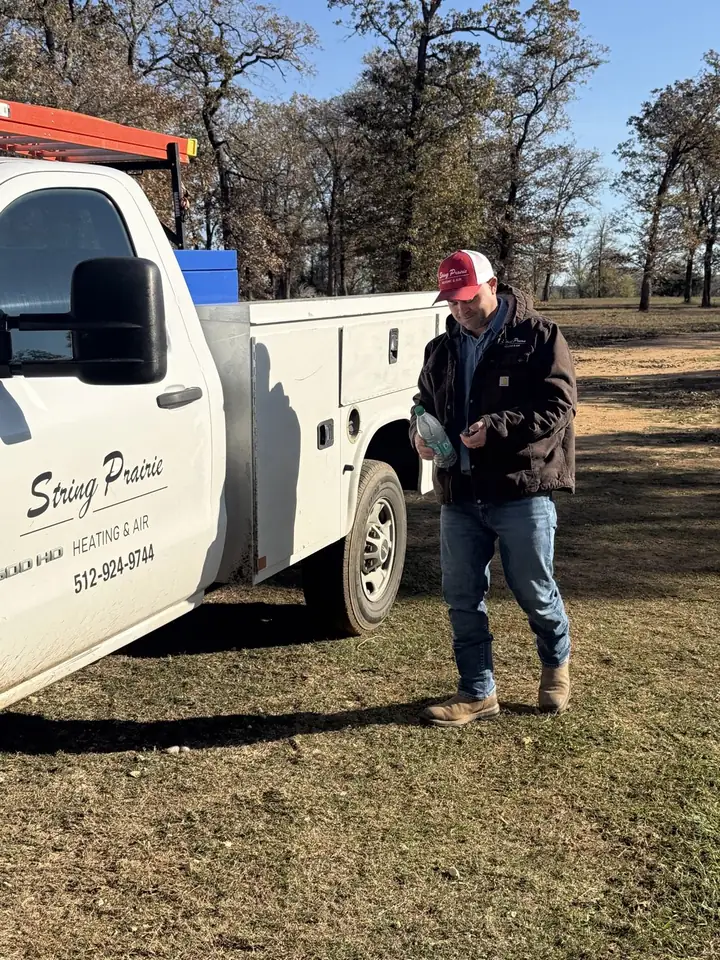
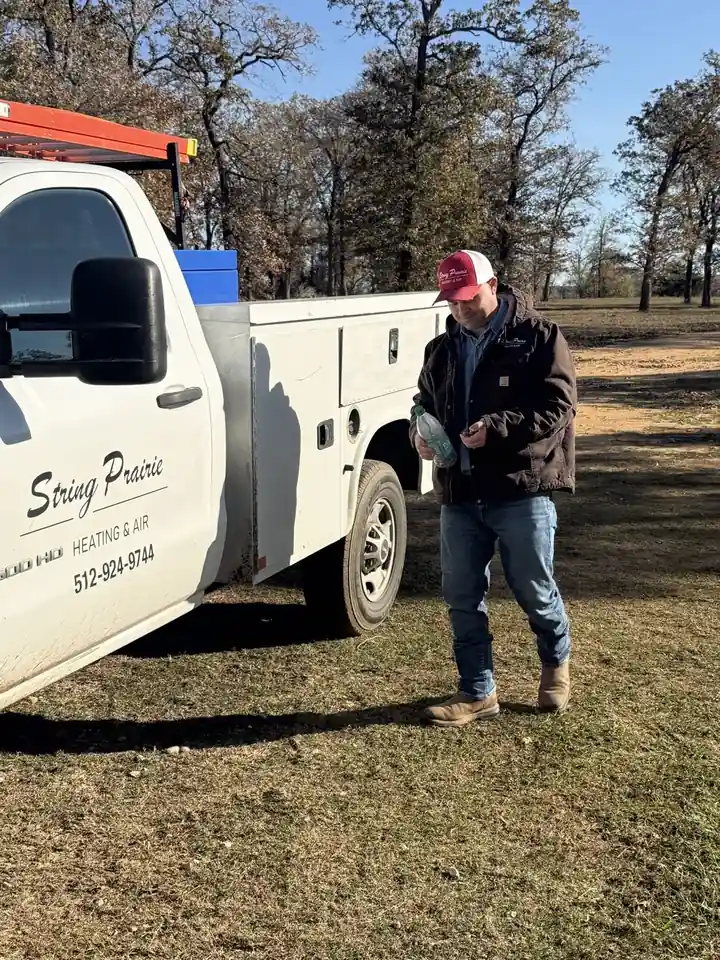
Shrink the partner hero and title florist searches as Florists.
The 960px photo stays under 150KB, the srcset adds 720px, and flower searches no longer borrow an unrelated group name.

diff --git a/src/lib/directoryMatch.ts b/src/lib/directoryMatch.ts
@@ -4,7 +4,7 @@
  */
 import synonymsFile from '../data/directorySynonyms.json' with { type: 'json' };
 import groupsFile from '../data/directoryCategoryGroups.json' with { type: 'json' };
-import { directoryLabelInfo } from './directoryGroups.ts';
+import { directoryLabelInfo, groupShort } from './directoryGroups.ts';
 
 export type MatchRow = {
   n: string;
@@ -161,6 +161,8 @@ export function buildDirectoryMatcher(syn: SynFile = synonymsFile as SynFile, gr
     return prepared.nameNorm.includes(` ${normalizeDirectoryText(town)} `);
   }
 
+  const broadGroups = new Set(['shopping', 'business', 'community', 'things-to-do']);
+
   function conceptGroup(id: string) {
     const concept = concepts.get(id);
     if (!concept) return '';
@@ -168,6 +170,28 @@ export function buildDirectoryMatcher(syn: SynFile = synonymsFile as SynFile, gr
     if (listed[0]) return listed[0];
     const category = concept.categories?.[0];
     return category ? directoryLabelInfo(category).group : '';
+  }
+
+  function conceptAdTitle(id: string) {
+    const concept = concepts.get(id);
+    if (!concept) return '';
+    if (id === 'florist') return 'Florists';
+    const group = conceptGroup(id);
+    if (group && !broadGroups.has(group)) return groupShort(group);
+    const clause = String(concept.label || '').split('&')[0].trim();
+    return clause || (group ? groupShort(group) : '');
+  }
+
+  function pickAdConcept(units: QueryUnit[], text: string) {
+    const found: { id: string; term: string }[] = [];
+    for (const unit of units) {
+      if (unit.kind !== 'concept') continue;
+      for (const id of unit.ids || []) found.push({ id, term: unit.text });
+    }
+    if (!found.length) return '';
+    if (found.some((item) => item.id === 'florist') && /\b(florist|flowers|flower|nursery|plants)\b/.test(text)) return 'florist';
+    found.sort((a, b) => b.term.length - a.term.length || text.lastIndexOf(b.term) - text.lastIndexOf(a.term));
+    return found[0].id;
   }
 
   function unitOk(prepared: Prepared, unit: QueryUnit) {
@@ -198,7 +222,7 @@ export function buildDirectoryMatcher(syn: SynFile = synonymsFile as SynFile, gr
     return concept?.label || '';
   }
 
-  return { parse, search, prep, conceptLabel, conceptGroup, concepts };
+  return { parse, search, prep, conceptLabel, conceptGroup, conceptAdTitle, pickAdConcept, concepts };
 }
 
 let shared: ReturnType<typeof buildDirectoryMatcher> | undefined;

diff --git a/scripts/directory-ads.test.ts b/scripts/directory-ads.test.ts
@@ -246,6 +246,12 @@ test('nearest sorts by distance and does not pin', () => {
   const untitled = directoryAdContext('custom homes', '', '');
   assert.equal(untitled.category, 'builders');
   assert.equal(houseDirectoryPromo('spotlight', untitled).title, 'Builders');
+  assert.equal(houseDirectoryPromo('spotlight', directoryAdContext('wedding flowers', '', '')).title, 'Florists');
+  assert.equal(houseDirectoryPromo('spotlight', directoryAdContext('florist', '', '')).title, 'Florists');
+  assert.equal(houseDirectoryPromo('spotlight', directoryAdContext('flowers', '', '')).title, 'Florists');
+  assert.equal(houseDirectoryPromo('spotlight', directoryAdContext('hvac', '', '')).title, 'Home Repair');
+  assert.notEqual(houseDirectoryPromo('spotlight', directoryAdContext('photographer', '', '')).title, 'Business');
+  assert.notEqual(houseDirectoryPromo('spotlight', directoryAdContext('wedding', '', '')).title, 'Things to Do');
 });
 
 test('a file match can feature a partner before the D1 column exists', () => {

diff --git a/src/lib/directoryView.ts b/src/lib/directoryView.ts
@@ -321,7 +321,9 @@ export function directoryAdContext(query: string, town: string, category: string
   const parsed = directoryMatcher().parse(query);
   const concepts = parsed.units.filter((unit) => unit.kind === 'concept').flatMap((unit) => unit.ids || []);
   const townName = town && town !== 'Countywide' ? town : parsed.town;
-  let group = category || directoryMatcher().conceptGroup(concepts[0] || '');
+  const chosen = category ? '' : directoryMatcher().pickAdConcept(parsed.units, parsed.text);
+  let group = category || (chosen ? directoryMatcher().conceptGroup(chosen) : '');
+  let label = !category && chosen ? directoryMatcher().conceptAdTitle(chosen) : '';
   if (!group) {
     const text = parsed.text;
     for (const record of advertiserById.values()) {
@@ -339,6 +341,7 @@ export function directoryAdContext(query: string, town: string, category: string
     category: group,
     concepts,
     text: parsed.text,
+    label,
   };
 }
 

diff --git a/src/lib/directoryAds.ts b/src/lib/directoryAds.ts
@@ -19,6 +19,8 @@ export type DirectoryAdContext = {
   concepts?: string[];
   /** Typed search with the town removed. */
   text?: string;
+  /** Placeholder title when the group name is too broad. */
+  label?: string;
 };
 
 export type DirectoryPromo = {
@@ -175,7 +177,7 @@ export function promoFromSlot(slot: DirectoryAdSlot): DirectoryPromo {
 
 export function houseDirectoryPromo(kind: 'featured' | 'spotlight' | 'infeed', ctx: DirectoryAdContext): DirectoryPromo {
   const place = townOf(ctx) ? ` in ${townOf(ctx)}` : '';
-  const group = ctx.category ? groupLabel(ctx.category) : '';
+  const group = ctx.label || (ctx.category ? groupLabel(ctx.category) : '');
   if (kind === 'spotlight') {
     const price = directoryProductById('spotlight');
     return {
